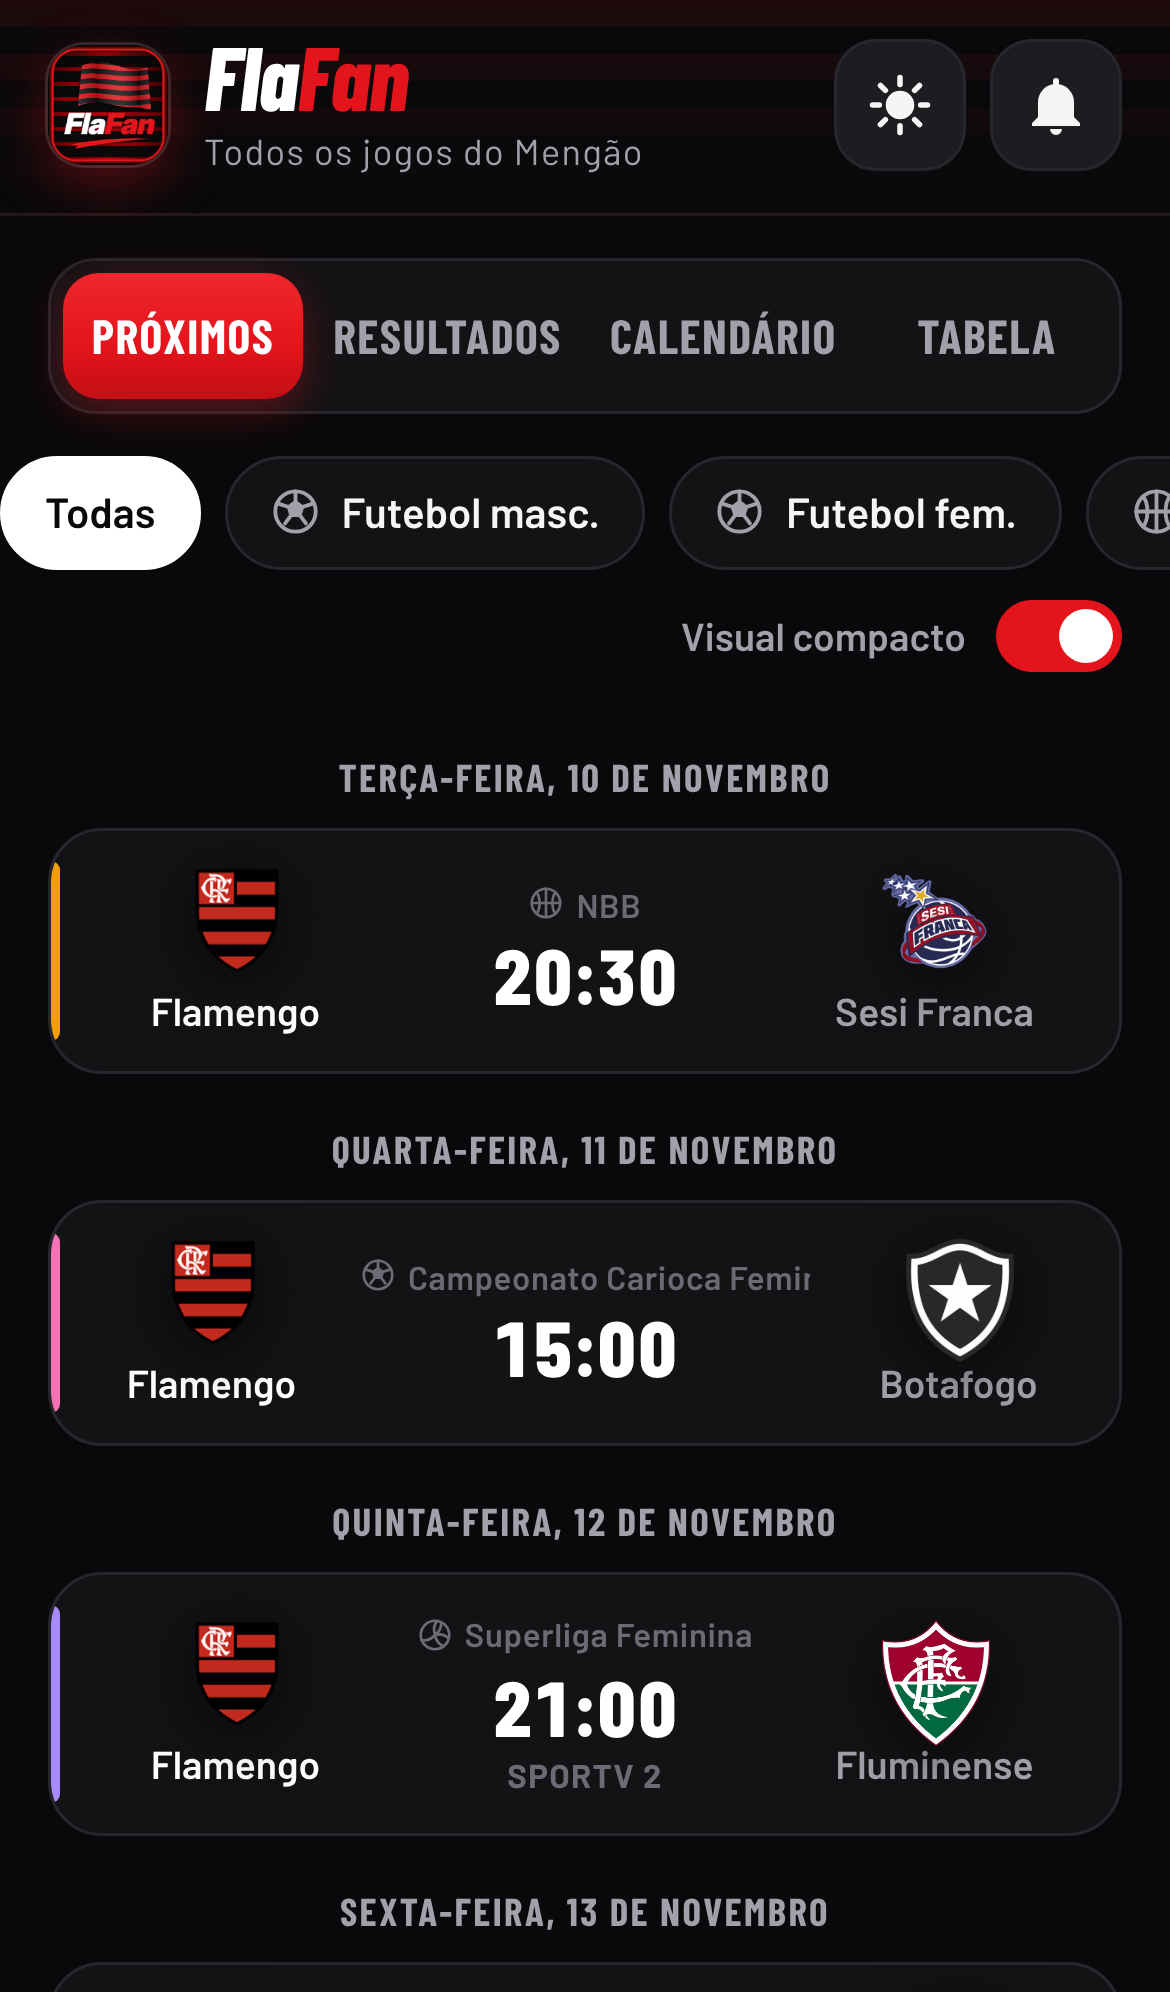
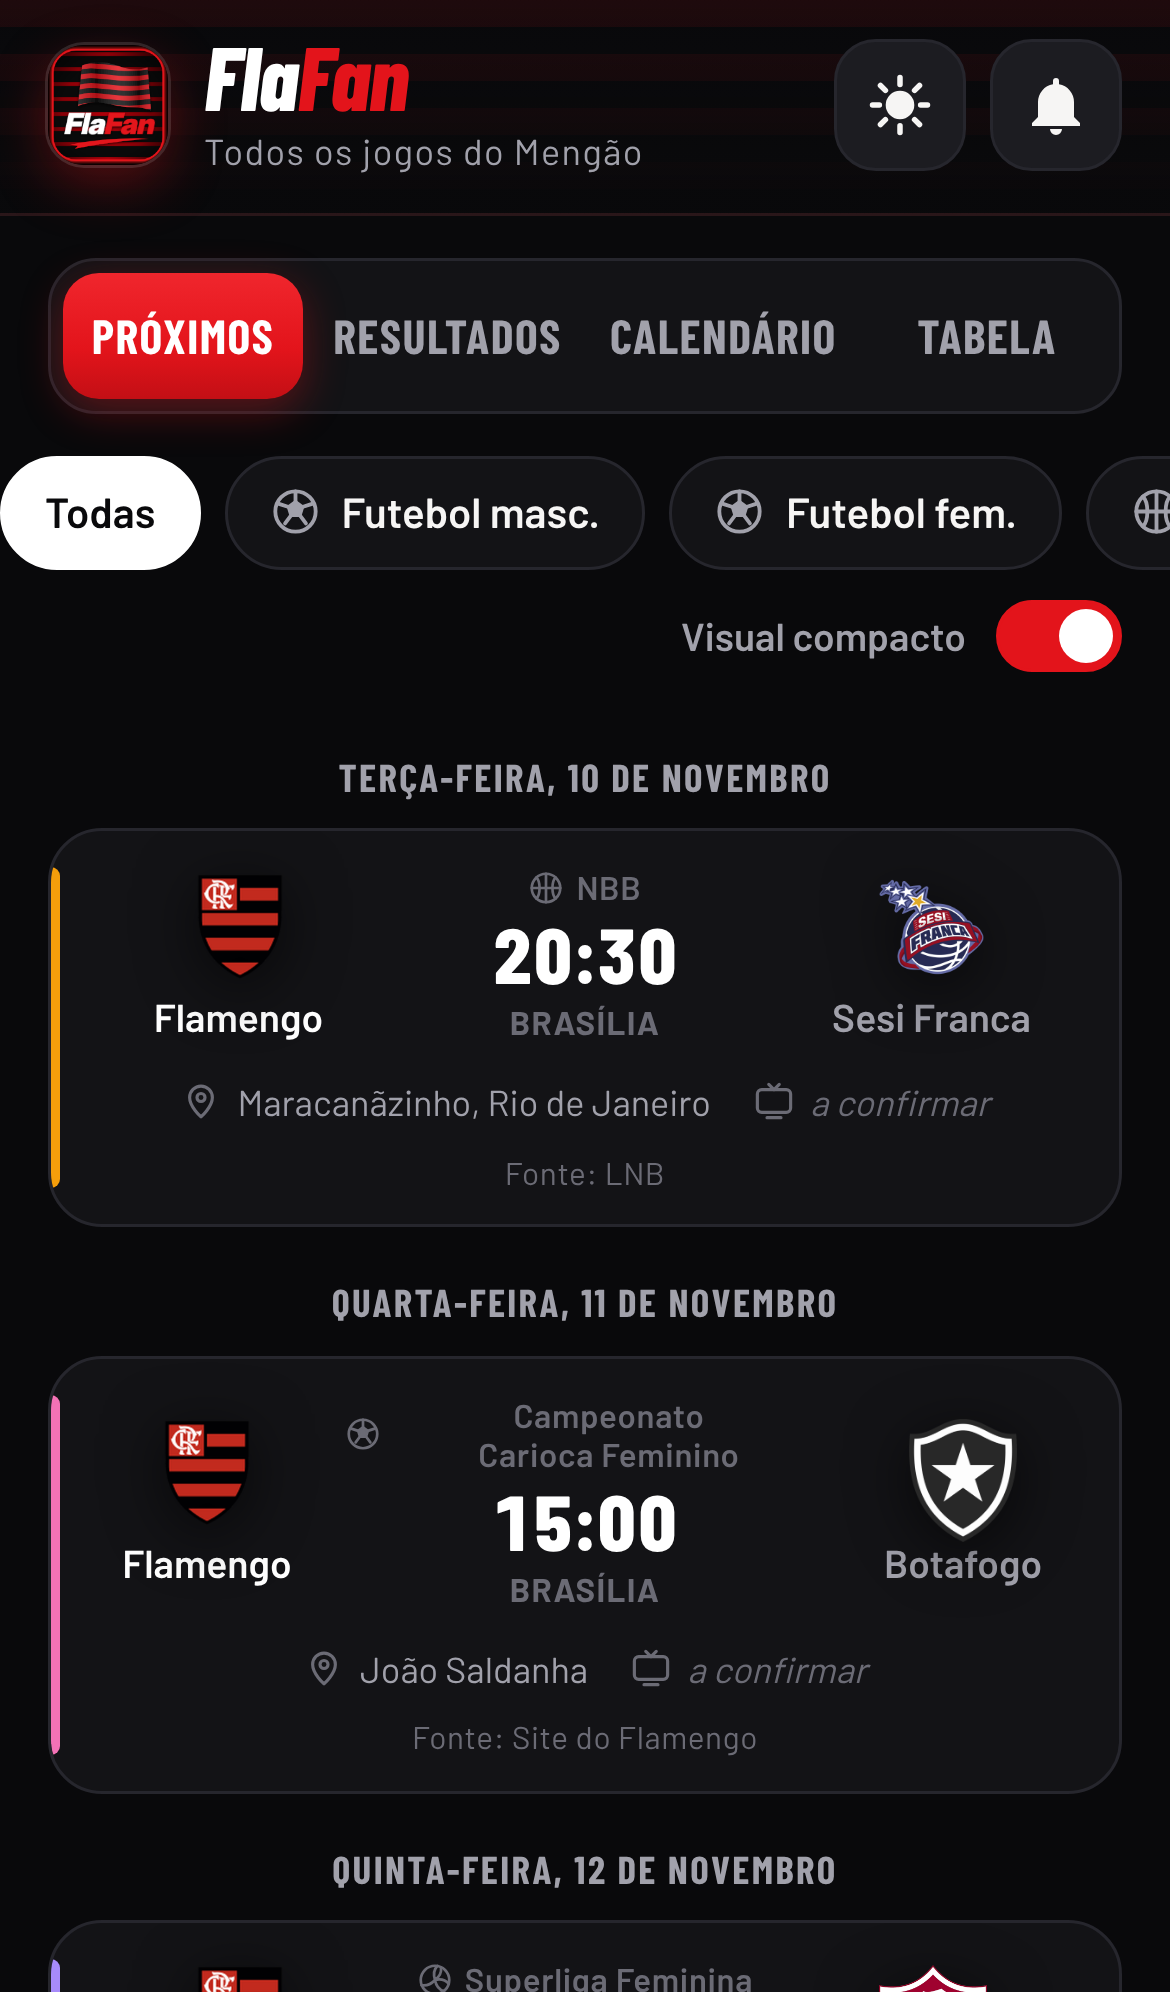
Visual compacto mostra todas as informações sem precisar abrir
Claude-Session: https://claude.ai/code/session_01KURSQmz2BHfMakW4thM8Jz

diff --git a/styles.css b/styles.css
@@ -400,11 +400,9 @@ select { background: var(--cartao2); border: 1px solid var(--borda); border-radi
 .painel-compacto { background: var(--cartao); border: 1px solid var(--borda); border-radius: var(--raio); overflow: hidden; margin-bottom: 6px; }
 .lc { border-bottom: 1px solid var(--linha); }
 .lc:last-child { border-bottom: 0; }
-.lc summary { list-style: none; display: grid; grid-template-columns: 1fr minmax(118px, auto) 1fr; align-items: center; gap: 6px; padding: 12px 10px; cursor: pointer; position: relative; }
-.lc summary::-webkit-details-marker { display: none; }
-.lc summary::before { content: ""; position: absolute; left: 0; top: 10px; bottom: 10px; width: 3px; border-radius: 0 3px 3px 0; background: var(--cor); }
-.lc summary:focus-visible { outline: 2px solid var(--vermelho); outline-offset: -2px; }
-.lc[open] summary { background: var(--cartao2); }
+.lc { position: relative; padding: 12px 12px 10px; }
+.lc::before { content: ""; position: absolute; left: 0; top: 12px; bottom: 12px; width: 3px; border-radius: 0 3px 3px 0; background: var(--cor); }
+.lc-placa { display: grid; grid-template-columns: 1fr minmax(118px, auto) 1fr; align-items: center; gap: 6px; }
 .lc-time { display: grid; justify-items: center; gap: 5px; text-align: center; min-width: 0; }
 .lc-time .escudo-box.mini { width: 36px; height: 36px; }
 .lc-time .escudo-box.mini .escudo { width: 36px; height: 36px; font-size: 12px; }
@@ -414,7 +412,7 @@ select { background: var(--cartao2); border: 1px solid var(--borda); border-radi
 .lc-ic .ic { width: 30px; height: 30px; }
 .lc-trofeu { color: var(--ambar); }
 .lc-centro { display: grid; justify-items: center; gap: 2px; text-align: center; min-width: 0; }
-.lc-comp { display: inline-flex; align-items: center; gap: 4px; font-size: 11px; font-weight: 600; letter-spacing: .02em; color: var(--apagado); max-width: 150px; white-space: nowrap; overflow: hidden; text-overflow: ellipsis; }
+.lc-comp { display: inline-flex; align-items: center; justify-content: center; gap: 4px; font-size: 11px; font-weight: 600; letter-spacing: .02em; color: var(--apagado); max-width: 160px; line-height: 1.2; text-wrap: balance; }
 .lc-comp .ic { width: 12px; height: 12px; flex: none; }
 .lc-hora { font-family: var(--display); font-weight: 800; font-size: 26px; line-height: 1.05; font-variant-numeric: tabular-nums; color: var(--forte); }
 .lc-hora.apagado { color: var(--apagado); }
@@ -427,7 +425,20 @@ select { background: var(--cartao2); border: 1px solid var(--borda); border-radi
 .lc-leg.v { color: var(--gratis-texto); }
 .lc-leg.d { color: var(--d-texto); }
 .lc-leg.ao-vivo { color: var(--vermelho); }
-.lc-detalhe { padding: 4px 10px 10px; background: var(--cartao2); }
-.lc-detalhe .jogo { margin: 0; }
 #lista.compacto .dia { justify-content: center; font-size: 13px; letter-spacing: .06em; margin: 16px 2px 8px; }
 #lista.compacto .dia::before, #lista.compacto .dia::after { display: none; }
+
+/* informações completas na linha compacta */
+.lc-info { display: flex; flex-wrap: wrap; justify-content: center; gap: 4px 14px; margin-top: 10px; font-size: 12px; color: var(--suave); text-align: center; }
+.lc-item { display: inline-flex; align-items: center; gap: 5px; min-width: 0; }
+.lc-item .ic { width: 14px; height: 14px; color: var(--apagado); flex: none; }
+.lc-item b { font-weight: 700; color: var(--texto); }
+.lc-item b.gratis { color: var(--gratis-texto); }
+.lc-item i { font-style: italic; color: var(--apagado); }
+.lc-obs { margin: 8px auto 0; max-width: 46ch; padding: 5px 10px; border-radius: 8px; background: var(--aviso-fundo); color: var(--aviso-texto); font-size: 12px; text-align: center; }
+.lc-resultado { display: flex; flex-wrap: wrap; justify-content: center; gap: 4px 12px; margin-top: 8px; font-size: 12px; font-weight: 700; color: var(--aviso-texto); }
+.lc-resultado span { display: inline-flex; align-items: center; gap: 4px; }
+.lc-resultado .ic { width: 14px; height: 14px; }
+.lc-rodape { display: flex; flex-wrap: wrap; justify-content: center; align-items: center; gap: 4px 12px; margin-top: 8px; }
+.lc-fonte { font-size: 10.5px; color: var(--apagado); letter-spacing: .02em; }
+.lc-ingresso { font-size: 12px; font-weight: 700; color: #fff; background: var(--vermelho); padding: 4px 10px; border-radius: 999px; text-decoration: none; }

diff --git a/app.js b/app.js
@@ -187,12 +187,27 @@ function linhaCompacta(j) {
       valor = '<span class="lc-hora apagado">– × –</span>'; legenda = 'Sem placar';
     } else {
       valor = `<span class="lc-hora">${j.semHora ? '--:--' : fHora.format(data)}</span>`;
-      legenda = j.status === 'ao-vivo' ? 'Ao vivo' : j.transmissao?.[0] ?? (j.semHora ? 'A definir' : '');
+      legenda = j.status === 'ao-vivo' ? 'Ao vivo' : j.semHora ? 'Horário a definir' : 'Brasília';
     }
   }
   const comp = j.tipo === 'evento' ? 'Olímpicos' : (j.competicao || m.nome || '');
-  return `<details class="lc" style="--cor:${m.cor}">
-    <summary>
+  // todas as informações do cartão, em letra pequena, sem precisar abrir
+  const acabou = j.tipo === 'evento' ? (j.status === 'encerrado' || fimDoEvento(j) < Date.now()) : jaTerminou(j) || (!j.semHora && data.getTime() + DURACAO < Date.now());
+  const info = [];
+  if (j.local) info.push(`<span class="lc-item">${icone('pin')}${esc(j.local)}</span>`);
+  if (!acabou && j.status !== 'cancelado') {
+    info.push(`<span class="lc-item">${icone('tv')}${j.transmissao?.length ? j.transmissao.map((c) => `<b class="${GRATIS.test(c) ? 'gratis' : ''}">${esc(c)}</b>`).join(', ') : '<i>a confirmar</i>'}</span>`);
+  }
+  if (j.tipo === 'evento' && j.atletas?.length) info.push(`<span class="lc-item">${icone('pessoa')}${j.atletas.map(esc).join(' · ')}</span>`);
+  const extras = [];
+  if (j.tipo === 'evento' && j.resultado?.length > 1) extras.push(`<div class="lc-resultado">${j.resultado.map((r) => `<span>${icone('trofeu')}${esc(r)}</span>`).join('')}</div>`);
+  if (j.observacao) extras.push(`<div class="lc-obs">${esc(j.observacao)}</div>`);
+  const rodape = [];
+  if (j.ingresso && /^https:\/\//.test(j.ingresso) && !acabou && j.status !== 'cancelado') rodape.push(`<a class="lc-ingresso" href="${esc(j.ingresso)}" target="_blank" rel="noopener">Comprar ingresso ↗</a>`);
+  if (j.categoria) rodape.push(`<span class="lc-fonte">${esc(j.categoria)}</span>`);
+  if (j.fonteInfo) rodape.push(`<span class="lc-fonte">Fonte: ${esc(j.fonteInfo)}</span>`);
+  return `<article class="lc" style="--cor:${m.cor}">
+    <div class="lc-placa">
       ${esq}
       <div class="lc-centro">
         <span class="lc-comp">${j.tipo === 'evento' ? '' : icone(m.icone ?? 'olimpicos')}${esc(comp)}</span>
@@ -200,9 +215,11 @@ function linhaCompacta(j) {
         <span class="lc-leg ${classeValor} ${j.status === 'ao-vivo' ? 'ao-vivo' : ''}">${esc(legenda)}</span>
       </div>
       ${dir}
-    </summary>
-    <div class="lc-detalhe">${cartao(j)}</div>
-  </details>`;
+    </div>
+    ${info.length ? `<div class="lc-info">${info.join('')}</div>` : ''}
+    ${extras.join('')}
+    ${rodape.length ? `<div class="lc-rodape">${rodape.join('')}</div>` : ''}
+  </article>`;
 }
 
 function cartao(j, destaque = false) {

diff --git a/sw.js b/sw.js
@@ -1,5 +1,5 @@
 // FlaFan — permite abrir o app mesmo sem internet (mostra a última lista baixada).
-const VERSAO = 'flafan-v12';
+const VERSAO = 'flafan-v13';
 const ARQUIVOS = ['./', 'index.html', 'styles.css', 'app.js', 'manifest.webmanifest', 'icons/icon-192.png', 'icons/icon-512.png',
   'fonts/barlow-latin-400-normal.woff2', 'fonts/barlow-latin-600-normal.woff2', 'fonts/barlow-latin-700-normal.woff2',
   'fonts/barlow-condensed-latin-700-normal.woff2', 'fonts/barlow-condensed-latin-800-normal.woff2', 'fonts/barlow-condensed-latin-800-italic.woff2'];
